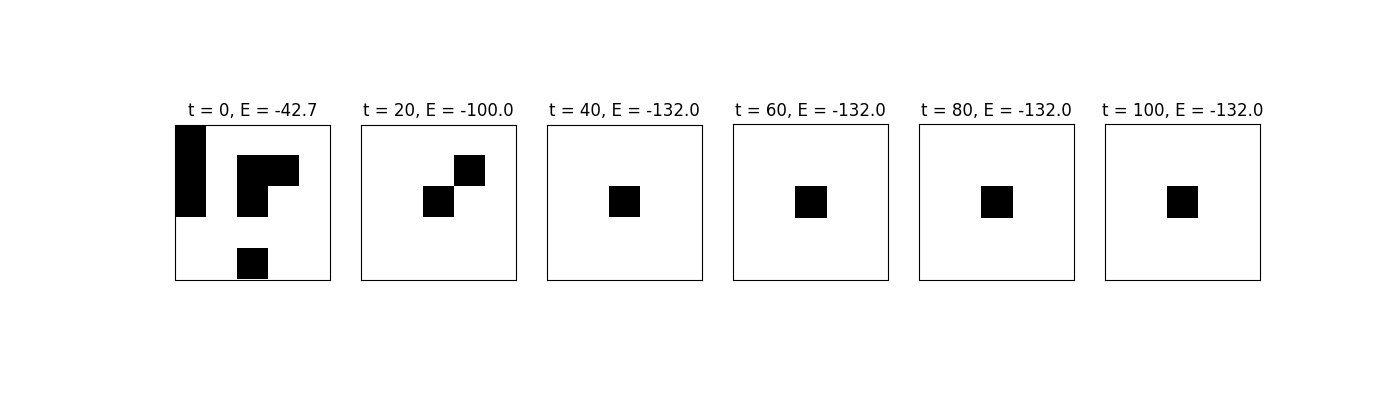
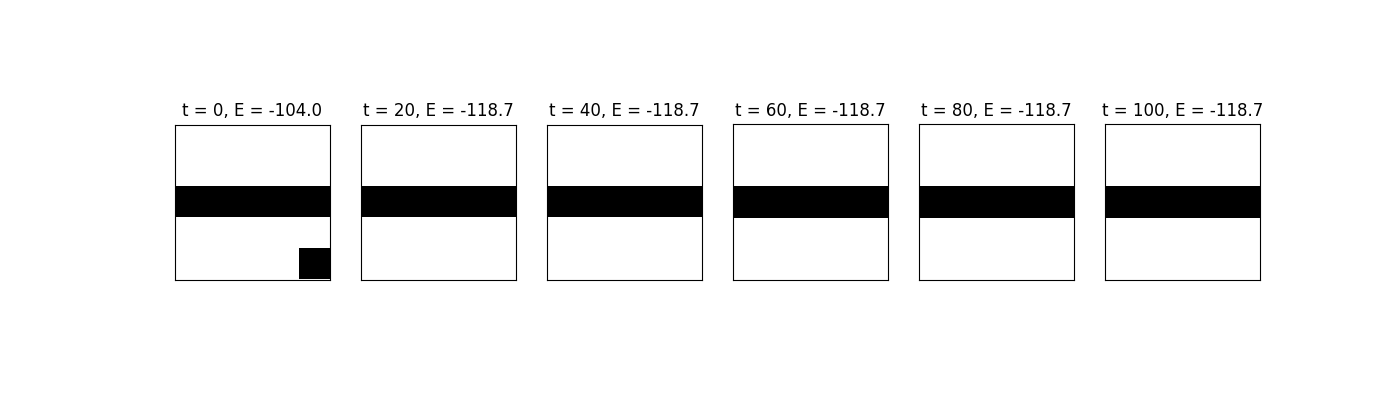
adapt to datagen

diff --git a/Hopfield.py b/Hopfield.py
@@ -1,5 +1,6 @@
 import numpy as np
 import matplotlib.pyplot as plt
+from data import *
 
 class Hopfield:
 
@@ -28,26 +29,11 @@ class Hopfield:
         plt.show()
 
 d = 5 # data size of one side
-p = 0.3 # noise probability
+p = 0.1 # noise probability
 Q = 3 # number of train data
 
 # train data static defined
-trainData = np.array([[[1, -1, -1, -1, -1],
-                      [-1, 1, -1, -1, -1],
-                      [-1, -1, 1, -1, -1],
-                      [-1, -1, -1, 1, -1],
-                      [-1, -1, -1, -1, 1]],
-                      [[-1, -1, 1, -1, -1],
-                      [-1, -1, 1, -1, -1],
-                      [-1, -1, 1, -1, -1],
-                      [-1, -1, 1, -1, -1],
-                      [-1, -1, 1, -1, -1]],
-                      [[-1, -1, -1, -1, -1],
-                      [-1, -1, -1, -1, -1],
-                      [1, 1, 1, 1, 1],
-                      [-1, -1, -1, -1, -1],
-                      [-1, -1, -1, -1, -1]]
-                      ]) # high orthogonality
+trainData = np.array(lines)
 trainData = np.reshape(trainData, (trainData.shape[0], 25))
 
 # testData = np.random.randint(2, size=(5, 5))
